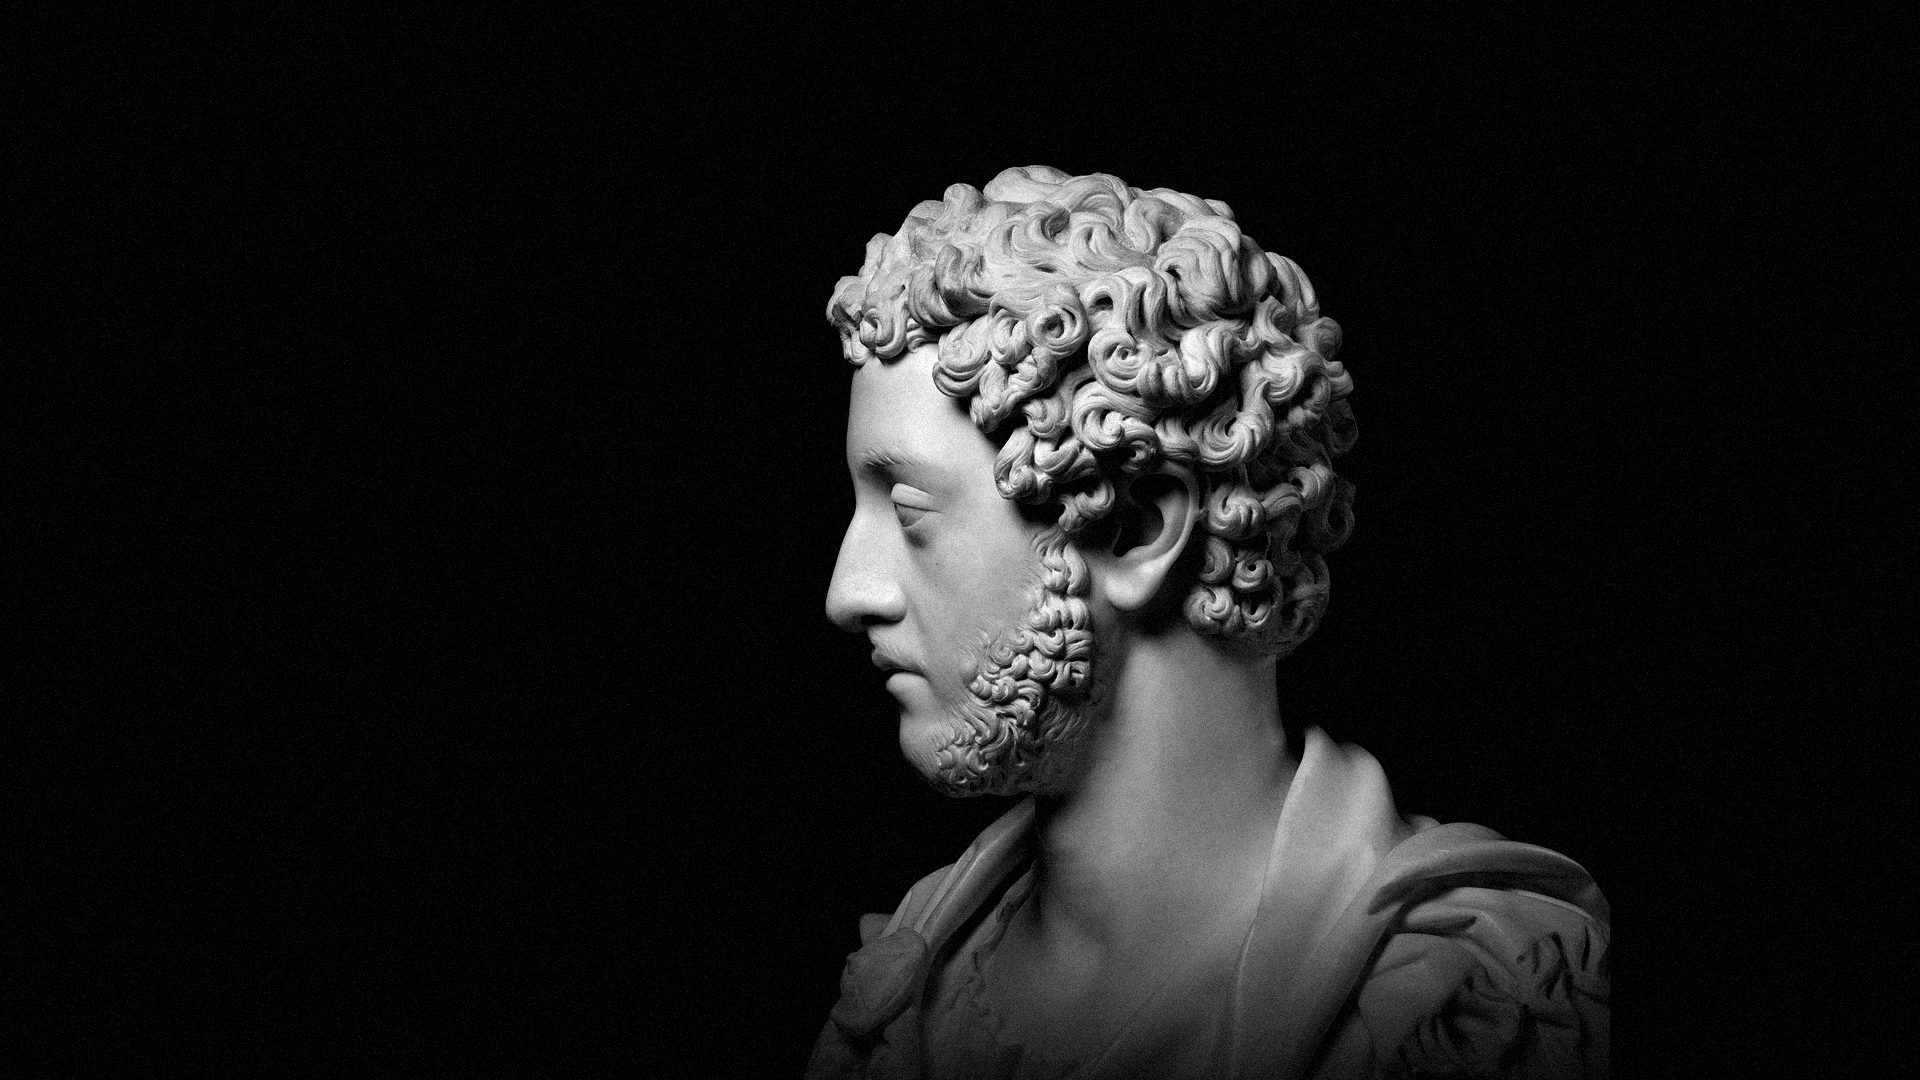
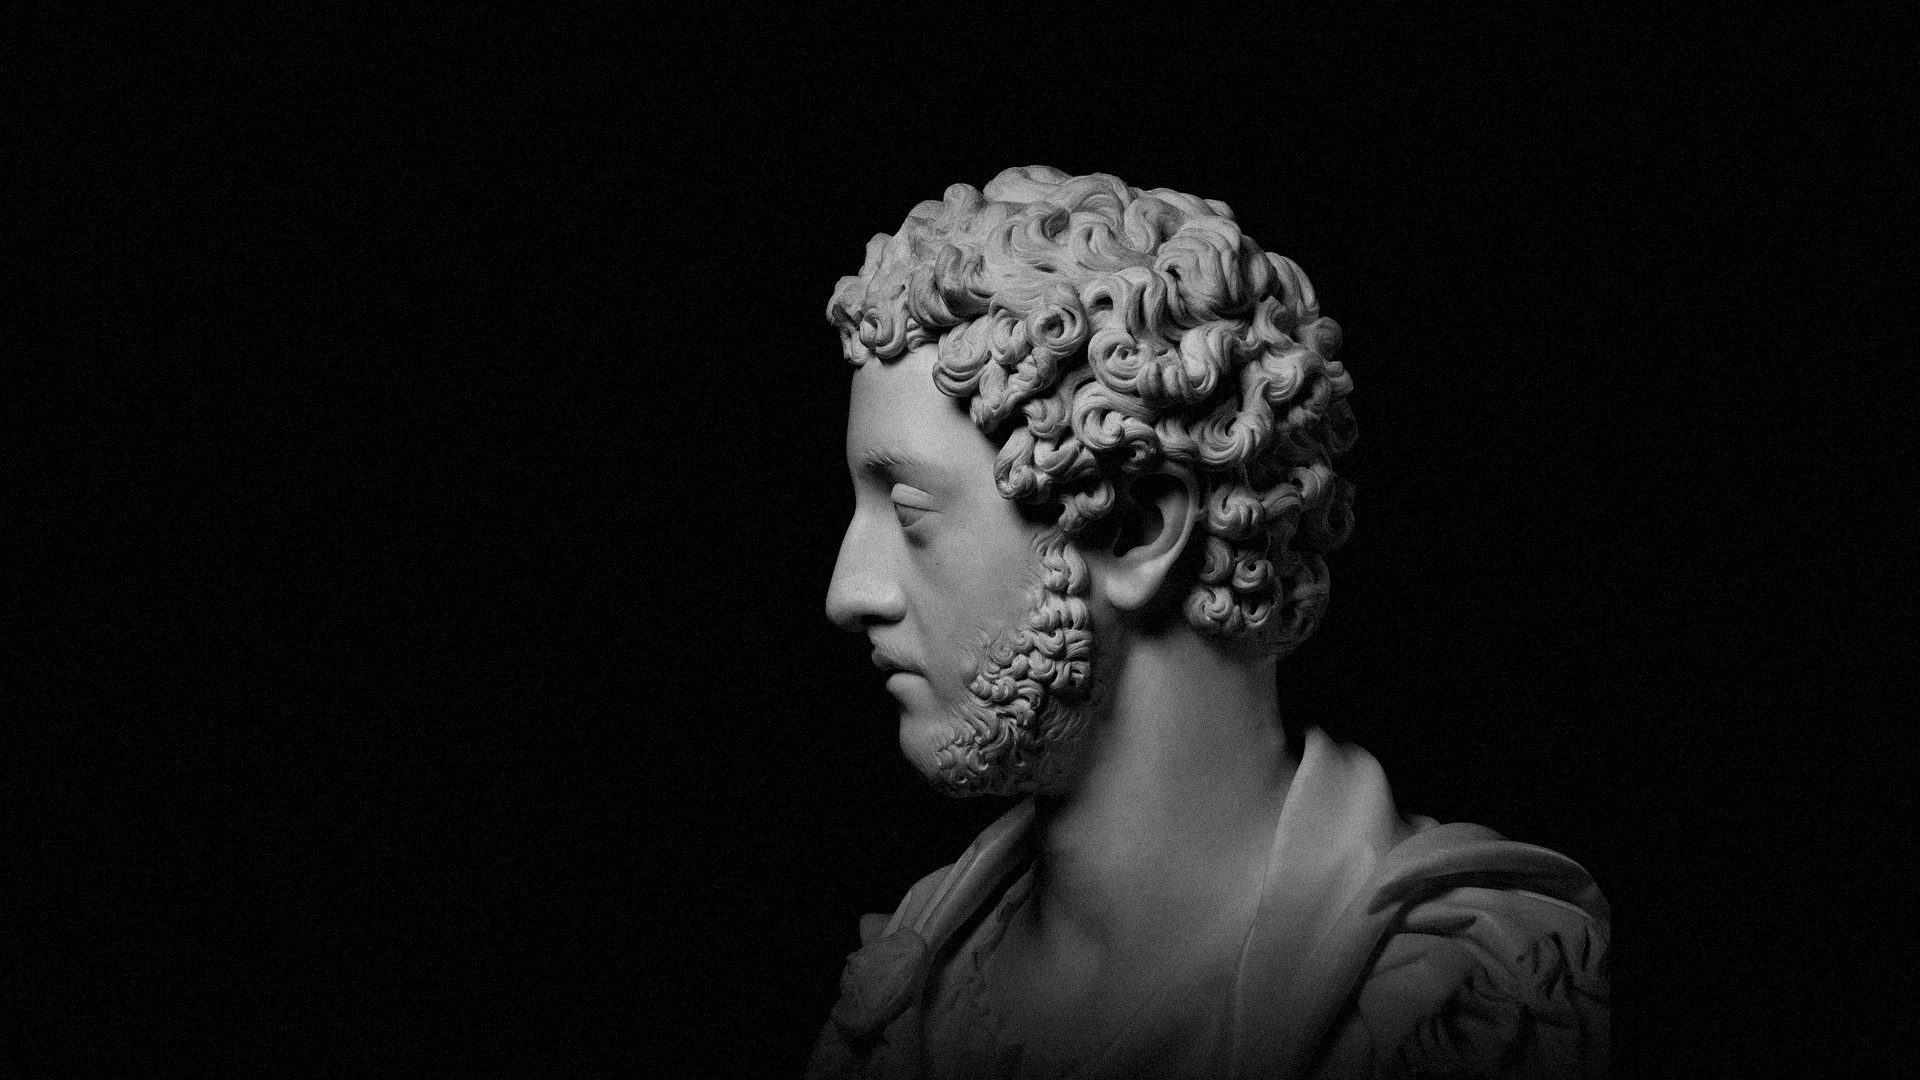
TradeFortis: slightly darker bust and stronger text shadow for readability

diff --git a/docs/index.html b/docs/index.html
@@ -11,14 +11,14 @@
 <link rel="apple-touch-icon" sizes="180x180" href="assets/icons/apple-touch-icon.png">
 <link rel="icon" type="image/png" sizes="192x192" href="assets/icons/icon-192.png">
 <link rel="manifest" href="manifest.webmanifest">
-<meta name="fd-version" content="5e3f95506e5a">
+<meta name="fd-version" content="3a1a7a34a14c">
 <meta name="mobile-web-app-capable" content="yes">
 <meta name="apple-mobile-web-app-title" content="FlowDesk">
 <meta name="application-name" content="FlowDesk">
 <meta name="format-detection" content="telephone=no">
 <link rel="preconnect" href="https://fonts.googleapis.com"><link rel="preconnect" href="https://fonts.gstatic.com" crossorigin>
 <link href="https://fonts.googleapis.com/css2?family=Inter:wght@400;500;600;700;800&family=Cormorant+Garamond:wght@500;600;700&family=Playfair+Display:ital,wght@0,600;0,700;1,600&family=JetBrains+Mono:wght@500;600&display=swap" rel="stylesheet">
-<link rel="stylesheet" href="css/style.css?v=5e3f95506e5a">
+<link rel="stylesheet" href="css/style.css?v=3a1a7a34a14c">
 </head>
 <body>
 <div id="splash">
@@ -85,15 +85,15 @@
   <a href="https://www.tradingview.com/" target="_blank" rel="noopener">Charts by TradingView</a>
 </footer>
 
-<script src="js/lightweight-charts.js?v=5e3f95506e5a"></script>
-<script src="js/util.js?v=5e3f95506e5a"></script>
-<script src="js/demo.js?v=5e3f95506e5a"></script>
-<script src="js/api.js?v=5e3f95506e5a"></script>
-<script src="js/fx.js?v=5e3f95506e5a"></script>
-<script src="js/anim.js?v=5e3f95506e5a"></script>
-<script src="js/charts.js?v=5e3f95506e5a"></script>
-<script src="js/views.js?v=5e3f95506e5a"></script>
-<script src="js/app.js?v=5e3f95506e5a"></script>
-<script src="js/update.js?v=5e3f95506e5a"></script>
+<script src="js/lightweight-charts.js?v=3a1a7a34a14c"></script>
+<script src="js/util.js?v=3a1a7a34a14c"></script>
+<script src="js/demo.js?v=3a1a7a34a14c"></script>
+<script src="js/api.js?v=3a1a7a34a14c"></script>
+<script src="js/fx.js?v=3a1a7a34a14c"></script>
+<script src="js/anim.js?v=3a1a7a34a14c"></script>
+<script src="js/charts.js?v=3a1a7a34a14c"></script>
+<script src="js/views.js?v=3a1a7a34a14c"></script>
+<script src="js/app.js?v=3a1a7a34a14c"></script>
+<script src="js/update.js?v=3a1a7a34a14c"></script>
 </body>
 </html>

diff --git a/docs/css/style.css b/docs/css/style.css
@@ -665,3 +665,6 @@ html.tf .view{text-shadow:0 1px 3px rgba(0,0,0,.95),0 0 16px rgba(0,0,0,.65)}
 html.tf .panel h3,html.tf .label,html.tf .stat .label{color:#B8B8C0}
 html.tf .sub{color:#B0B0B8}
 @media (max-width:860px){ html.tf .bg-img{-webkit-mask-image:linear-gradient(180deg,#000 0,#000 52vh,transparent 75vh);mask-image:linear-gradient(180deg,#000 0,#000 52vh,transparent 75vh)} }
+html.tf .view{text-shadow:0 1px 3px rgba(0,0,0,.95),0 0 8px rgba(0,0,0,.85),0 0 22px rgba(0,0,0,.6)}
+html.tf .seg{background:rgba(10,10,11,.45)} html.tf .seg button{color:#D4D4D8}
+html.tf .panel{background:rgba(10,10,11,.2)}
